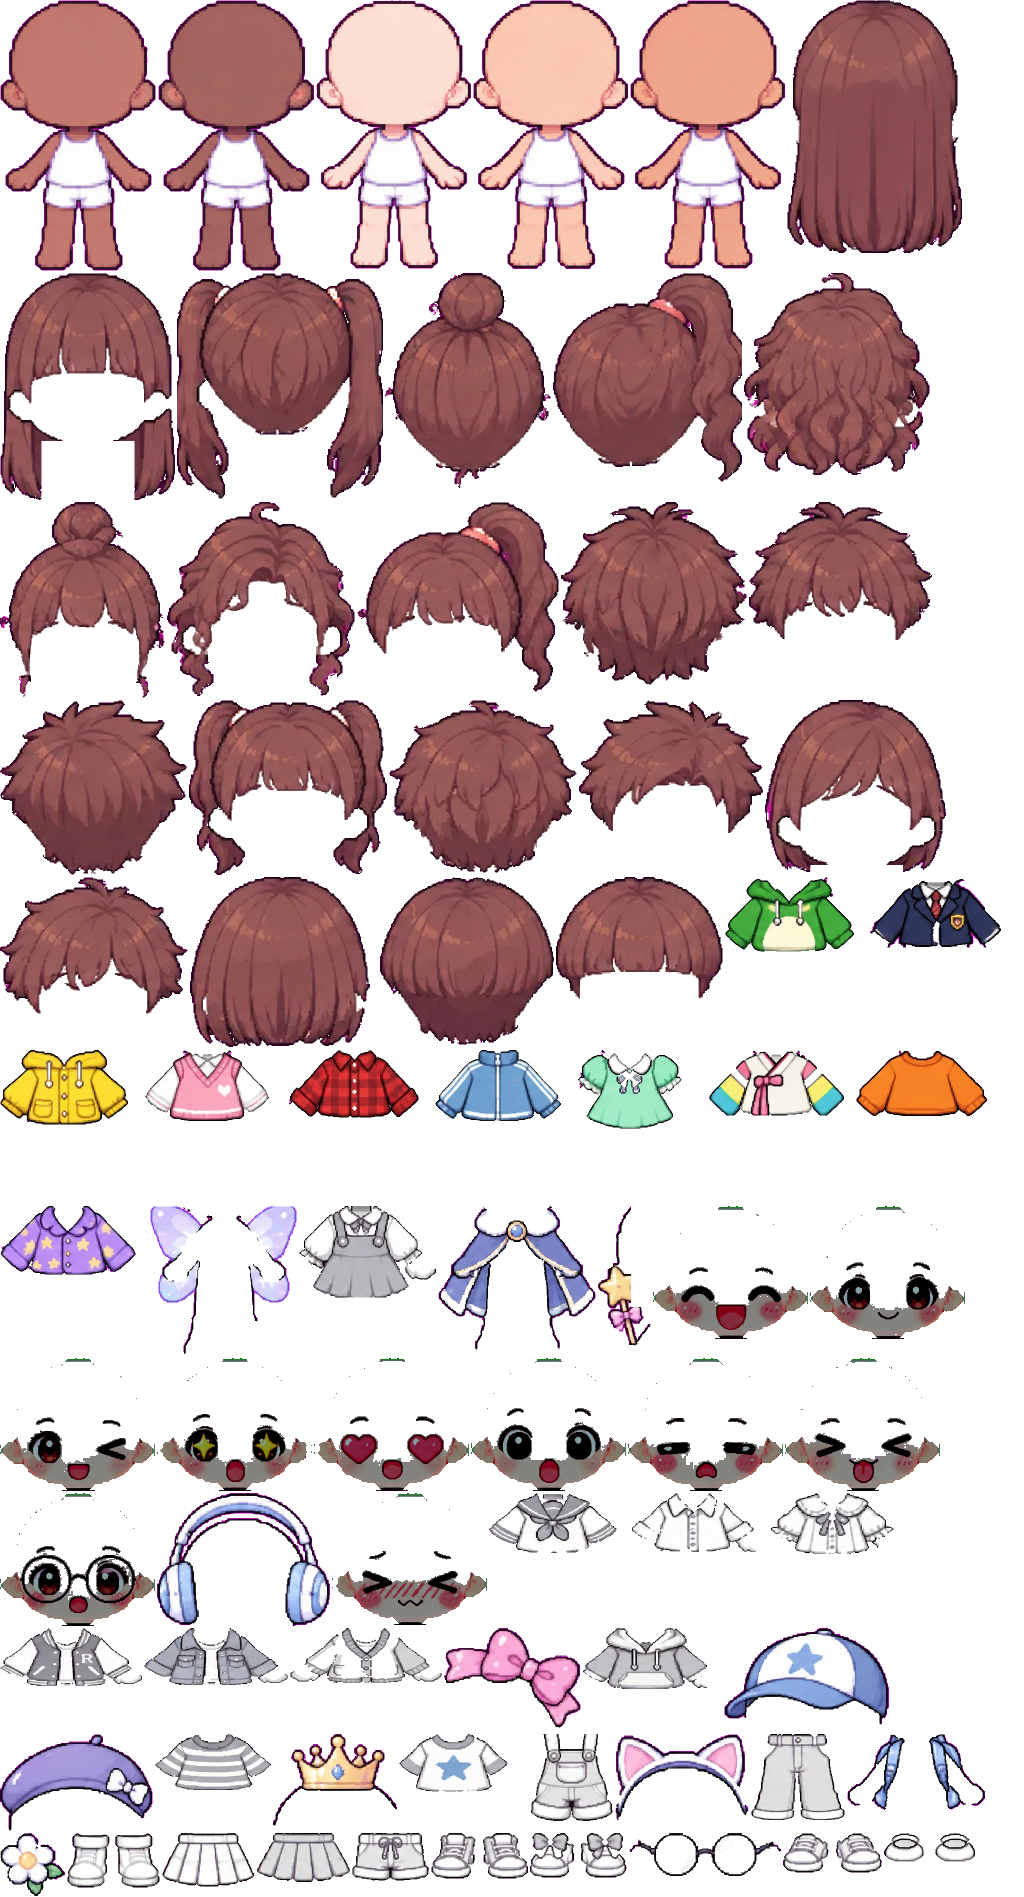
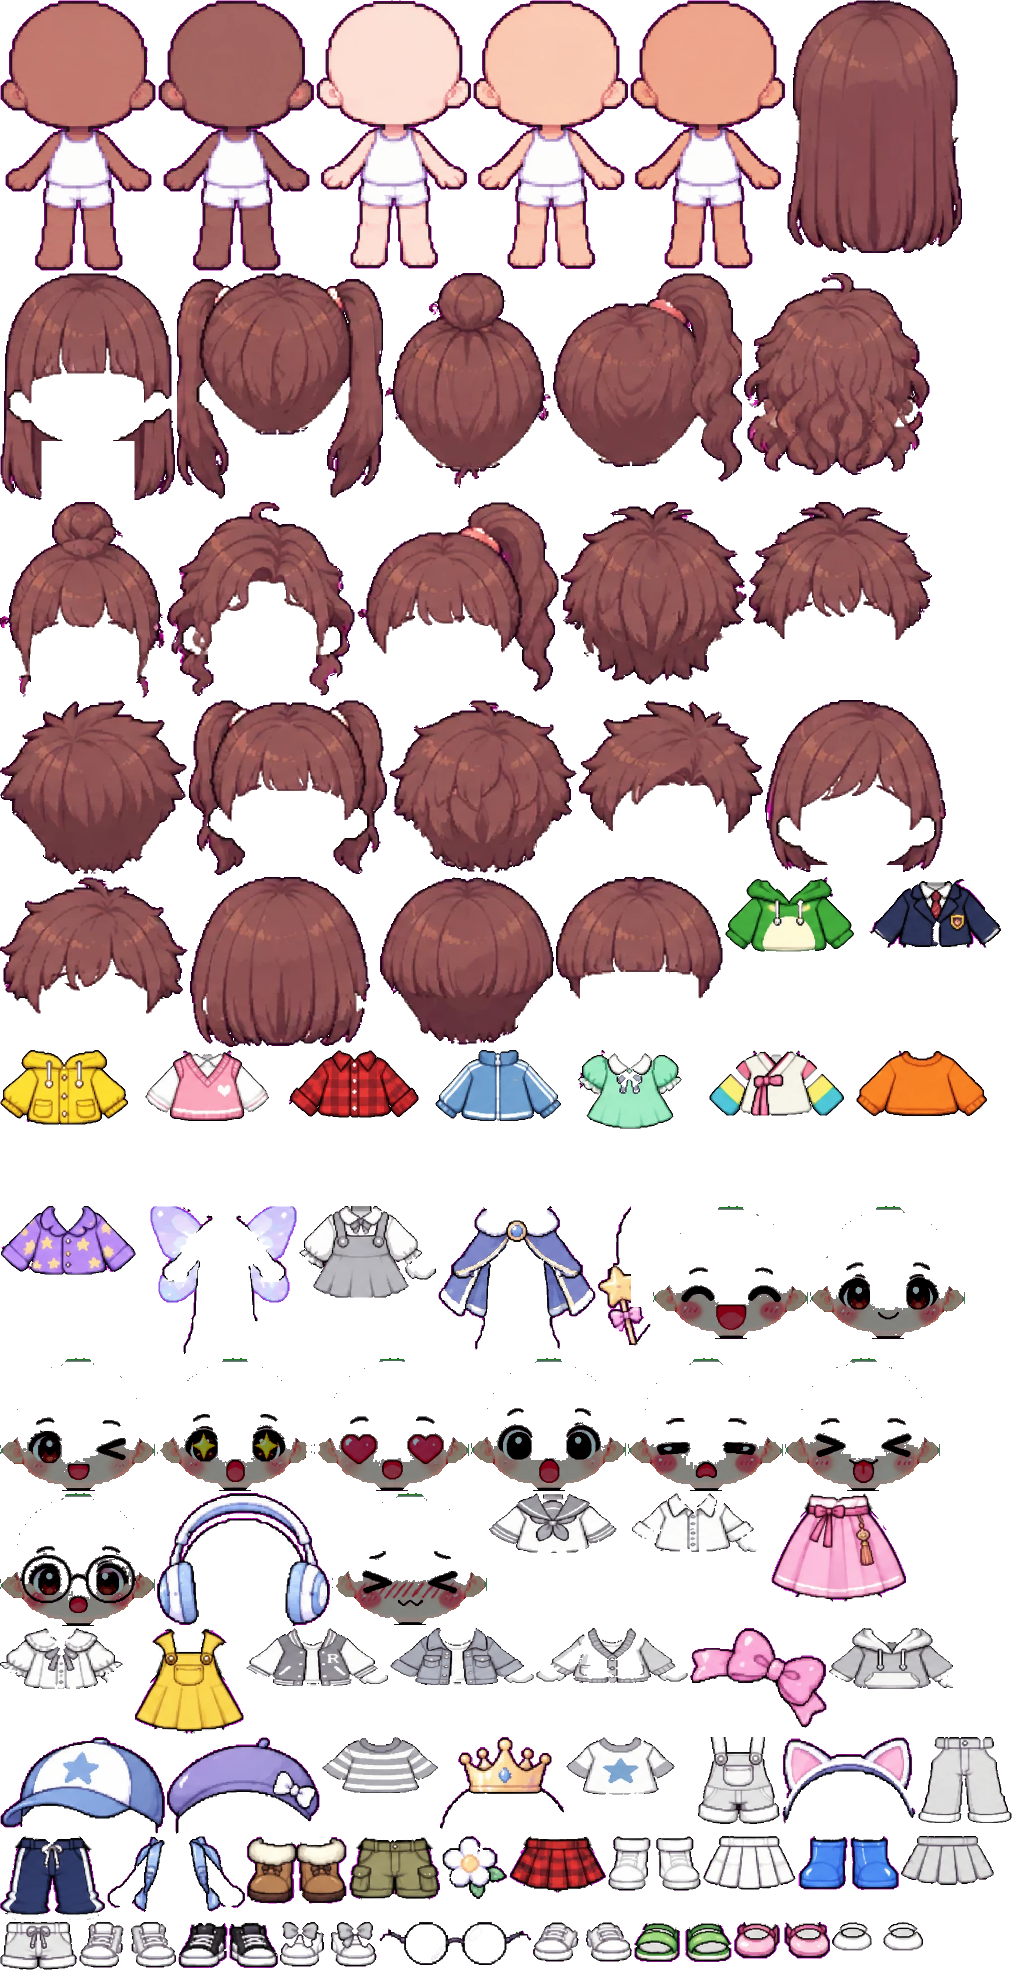
꼬마 탐험대: 하의 5가지·신발 5가지 추가 (모두 10가지씩)
- 하의: 빨간 체크 치마·카고 반바지·체육복 바지·노란 멜빵치마·한복 치마
- 신발: 파란 장화·검은 운동화·발레 슈즈·초록 샌들·털 부츠
- 체육복 바지도 긴바지처럼 밑단을 신발 위로. 멜빵치마·한복 치마·파란 장화·털 부츠는 열쇠로 산다
- sw v24, README

Claude-Session: https://claude.ai/code/session_01GaQn7MZBC3k4EEX7cEU7Dz

diff --git a/study/kkoma-park/chars.js b/study/kkoma-park/chars.js
@@ -9,8 +9,8 @@ export const FACES = ['활짝 웃음', '방긋 미소', '윙크', '반짝 눈', 
 export const HAIRS = ['부스스 머리', '덮은 머리', '삐죽 머리', '바가지 머리', '단발', '양 갈래', '옆 포니테일', '똥 머리', '곱슬 머리', '긴 생머리'];
 export const TOPS = ['별 티셔츠', '후드티', '셔츠', '세일러 옷', '블라우스', '줄무늬 티', '야구 점퍼', '청재킷', '카디건', '멜빵 원피스',
   '노란 비옷', '공룡 후드티', '빨간 체크 셔츠', '분홍 니트 조끼', '파란 체육복', '주황 맨투맨', '한복 저고리', '별 파자마', '교복 재킷', '민트 블라우스'];
-export const BOTTOMS = ['반바지', '긴바지', '주름치마', '미니 스커트', '멜빵 반바지'];
-export const SHOES = ['운동화', '하이탑', '구두', '장화', '리본 운동화'];
+export const BOTTOMS = ['반바지', '긴바지', '주름치마', '미니 스커트', '멜빵 반바지', '빨간 체크 치마', '카고 반바지', '체육복 바지', '노란 멜빵치마', '한복 치마'];
+export const SHOES = ['운동화', '하이탑', '구두', '장화', '리본 운동화', '파란 장화', '검은 운동화', '발레 슈즈', '초록 샌들', '털 부츠'];
 // 소품: [이름, 자리]. 같은 자리에는 하나만 달 수 있다
 export const ACCS = [
   ['야구 모자', 'hat'], ['베레모', 'hat'], ['왕관', 'hat'], ['헤드폰', 'hat'], ['고양이 머리띠', 'hat'], ['분홍 리본', 'pin'],
@@ -20,8 +20,8 @@ export const SLOTS = ['hat', 'pin', 'eye', 'back', 'hand'];
 // 부품마다 정해진 색 (null = 그림 원래 색). 색을 따로 고르지 않고, 색이 입혀진 완성 그림을 고른다
 const HAIR_COLORS = [null, '#2b211e', '#c0703a', '#3a2620', '#f0c85f', '#f2a7c0', null, '#2b211e', '#8a6fe0', '#c0703a'];
 const TOP_COLORS = [null, '#ff9ccf', '#8cc8ff', null, '#ffc9dc', '#6fb6ff', '#5f7fe0', '#7fa8e0', '#ffe07a', '#b79cff', null, null, null, null, null, null, null, null, null, null];
-const BOT_COLORS = ['#5f7fe0', '#4a5a8a', '#ff9ccf', '#b79cff', '#7fa8e0'];
-const SHOE_COLORS = [null, '#e0565b', '#7a4a36', '#ffd24a', '#ff9ccf'];
+const BOT_COLORS = ['#5f7fe0', '#4a5a8a', '#ff9ccf', '#b79cff', '#7fa8e0', null, null, null, null, null];
+const SHOE_COLORS = [null, '#e0565b', '#7a4a36', '#ffd24a', '#ff9ccf', null, null, null, null, null];
 const COLORS = { hair: HAIR_COLORS, top: TOP_COLORS, bot: BOT_COLORS, shoe: SHOE_COLORS };
 const colorOf = (kind, i) => COLORS[kind][i] ?? null;
 
@@ -45,7 +45,7 @@ const PRICE = {
   'face:6': 1, 'face:7': 1, 'face:8': 1, 'face:9': 1,
   'hair:6': 2, 'hair:7': 2, 'hair:8': 2, 'hair:9': 2,
   'top:6': 2, 'top:7': 2, 'top:8': 2, 'top:9': 2, 'top:11': 3, 'top:13': 2, 'top:16': 3, 'top:17': 2, 'top:18': 3,
-  'bot:3': 1, 'bot:4': 1, 'shoe:3': 1, 'shoe:4': 1,
+  'bot:3': 1, 'bot:4': 1, 'bot:8': 2, 'bot:9': 3, 'shoe:3': 1, 'shoe:4': 1, 'shoe:5': 1, 'shoe:9': 2,
   'acc:11': 1, 'acc:3': 2, 'acc:4': 2, 'acc:7': 2, 'acc:10': 3, 'acc:9': 3, 'acc:8': 4, 'acc:2': 5,
 };
 for (const [id, , price] of PETS) if (price) PRICE[`pet:${id}`] = price;

diff --git a/study/kkoma-park/sw.js b/study/kkoma-park/sw.js
@@ -1,7 +1,7 @@
 // 앱 파일을 기기에 담아 두어 인터넷이 없어도 열리게 한다.
 // 3D 엔진·연결 프로그램·주아체 글꼴은 vendor/ 에 있다. 글꼴 조각과 튼튼 운동장의 몸 인식 엔진은 처음 쓸 때 담아 둔다.
 const PREFIX = 'yeolsoe-';
-const CACHE = `${PREFIX}v23`;
+const CACHE = `${PREFIX}v24`;
 const FILES = [
   './',
   './index.html',

diff --git a/study/kkoma-park/README.md b/study/kkoma-park/README.md
@@ -7,7 +7,7 @@
 
 ## 어떻게 놀아요?
 
-1. 별명과 학년을 고르고, **나만의 픽셀아트 캐릭터를 만들어요**: 피부색 5 · 얼굴 표정 10 · 머리 스타일 10 · 윗옷 20 · 아래옷 5 · 신발 5 · 모자와 소품 12 가지를 골라 입혀요. 옷과 머리는 저마다 색이 입혀진 완성 그림이에요 (같이 다니는 친구·직업 배지도 골라요). 캐릭터를 누르면 앞·옆·뒷모습을 볼 수 있고, 마을에서는 걷는 방향에 따라 옆모습·뒷모습이 돼요.
+1. 별명과 학년을 고르고, **나만의 픽셀아트 캐릭터를 만들어요**: 피부색 5 · 얼굴 표정 10 · 머리 스타일 10 · 윗옷 20 · 아래옷 10 · 신발 10 · 모자와 소품 12 가지를 골라 입혀요. 옷과 머리는 저마다 색이 입혀진 완성 그림이에요 (같이 다니는 친구·직업 배지도 골라요). 캐릭터를 누르면 앞·옆·뒷모습을 볼 수 있고, 마을에서는 걷는 방향에 따라 옆모습·뒷모습이 돼요.
 2. 가운데 **분수 광장 섬**에서 출발해 나무다리를 건너 각 섬으로 가요. 반짝이는 문으로 들어가면 건물 안 놀이방에서 동물 친구가 반겨 줘요. 오른쪽 위 **작은 지도**에서 건물 그림을 누르면 그 건물 앞으로 바로 가요.
 3. 놀이방마다 **보물 상자 3개**의 문제를 풀면 🗝 **열쇠**가 나타나요.
    - 처음 깬 건물은 **탐험 수첩에 도장**이 찍혀요.
